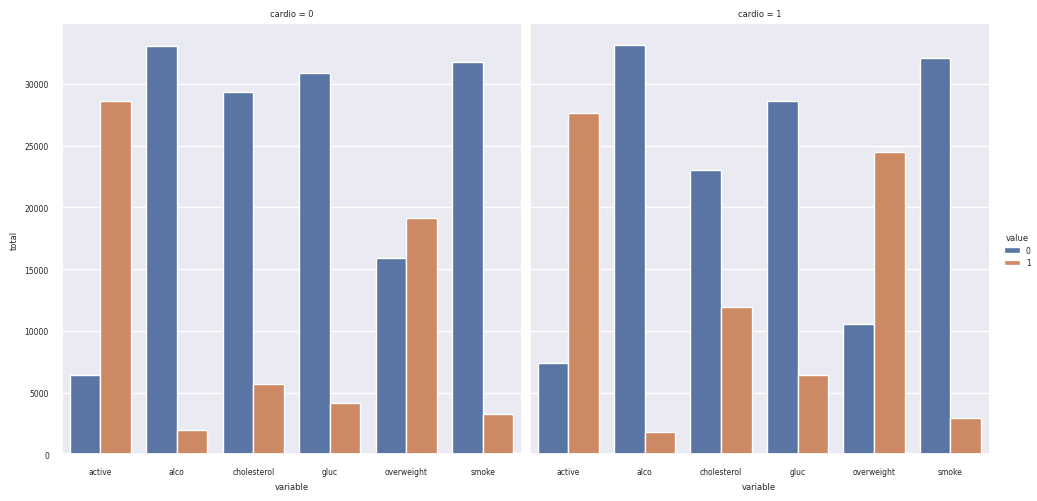
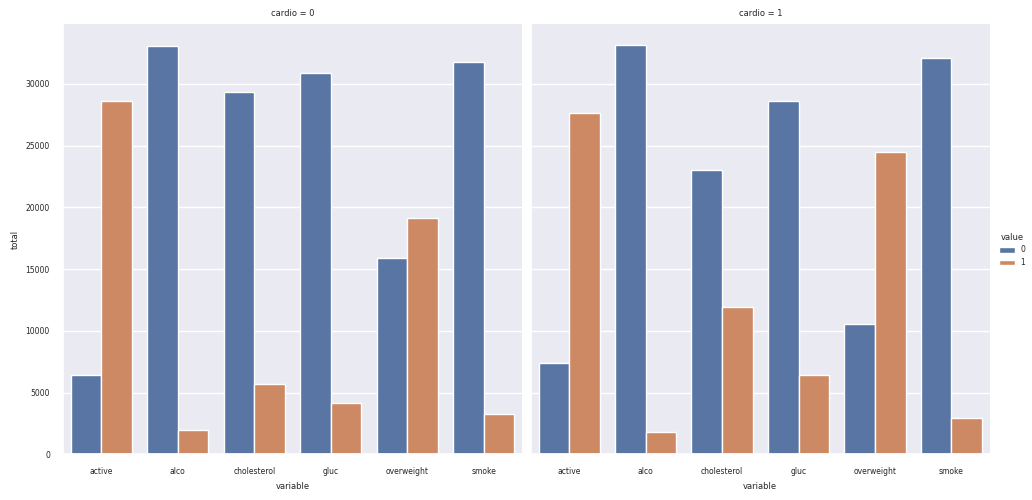
fixed fig numpy bug now passing test modules and complete

diff --git a/medical_data_visualizer.py b/medical_data_visualizer.py
@@ -13,35 +13,18 @@ df['overweight'] = (df['weight']/((df['height']/100)**2) > 25).astype(int)
 df['cholesterol'] = (df['cholesterol'] > 1).astype(int)
 df['gluc'] = (df['gluc'] > 1).astype(int)
 
-#print(df.iloc[40:50 ,7:9])
-# print(df.head())
-
 # 4
 def draw_cat_plot():
-    # print("in plot 1")
     # 5
     df_cat = pd.melt(df, id_vars=['cardio'], value_vars=['active', 'alco', 'cholesterol', 'gluc', 'overweight', 'smoke'])
 
-    # df_cat.info()
-
-#     # 6
-    # mask = df_cat['cardio'] == 0
-    # df0, df1 = df_cat[mask], df_cat[~mask]
-    # # df0, df1 = df_cat.loc[mask].drop('cardio', axis=1).groupby(by=["variable"]).sum().reset_index(), df_cat.loc[~mask].drop('cardio', axis=1).groupby(by=["variable"]).sum().reset_index().rename(columns={"value": "value1"})
-    # # df_cat = pd.merge(df0, df1, how = 'left')
-    
-    # df0.info()
-    # # print(df0)
-    # df1.info()
-    
-
-#     # 7
-
-#     # 8
-    fig = sns.catplot(data=df_cat, x="variable", col="cardio", kind="count", hue = "value", errorbar = None)#, height=4, aspect=.6,)
-    fig.set_ylabels("total")
-
-#     # 9
+    # 6
+    # 7
+    # 8
+    f = sns.catplot(data=df_cat, x="variable", col="cardio", kind="count", hue = "value", errorbar = None)
+    f.set_axis_labels("variable","total")
+    fig = f.figure
+    # 9
     fig.savefig('catplot.png')
     return fig
 
@@ -49,31 +32,25 @@ def draw_cat_plot():
 # 10
 def draw_heat_map():
     print("in plot 2")
-#     # 11
+    # 11
     df_heat = df.loc[(df['ap_lo'] <= df['ap_hi']) & (df['height'] >= df['height'].quantile(0.025)) & (df['height'] <= df['height'].quantile(0.975)) & (df['weight'] >= df['weight'].quantile(0.025)) & (df['weight'] <= df['weight'].quantile(0.975))]
 
-#     # 12
+    # 12
     corr = df_heat.corr()
 
     print(corr)
-#     # 13
+    # 13
     mask = np.triu(np.ones_like(corr))
 
-    # print(mask.shape)
-    # print(corr.shape)
-
-#     # 14
+    # 14
     fig, ax = plt.subplots()
-      # 15
+    # 15
     sns.set(font_scale=0.5)
      
     plot = sns.heatmap(corr, mask = mask, cbar = True, annot = True, annot_kws={"size": 5}, linewidths=0.05, linecolor='white', center = 0, fmt = '.1f', cbar_kws = {'shrink': 0.5, 'aspect': 20,'ticks': [-0.08, -0, 0.08, 0.16, 0.24]}, vmin=-0.14, vmax=0.3)
     plot.tick_params(axis='both', labelsize=5, length = 2, pad = 1, width = 0.5)
-
-    # plot.set_ylabel("Tip ($)", fontsize=14)
     fig = plot.figure
 
-    # fig
-#     # 16
+    # 16
     fig.savefig('heatmap.png')
     return fig
